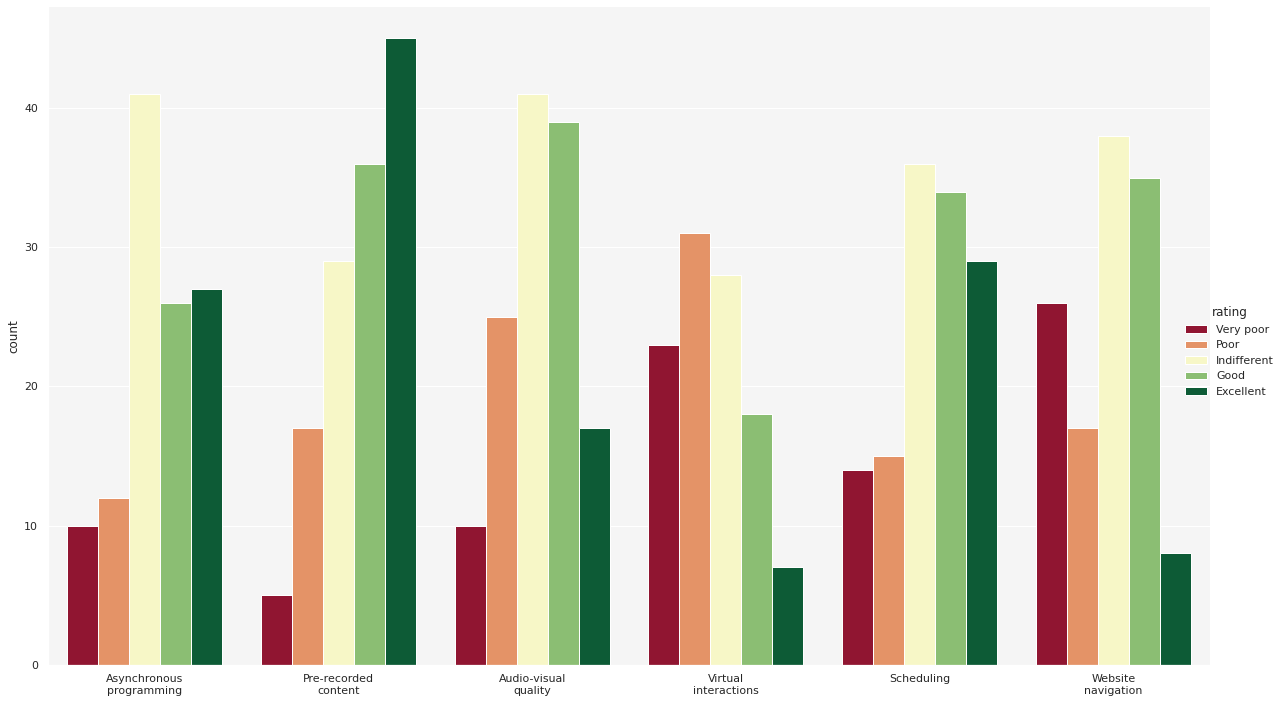
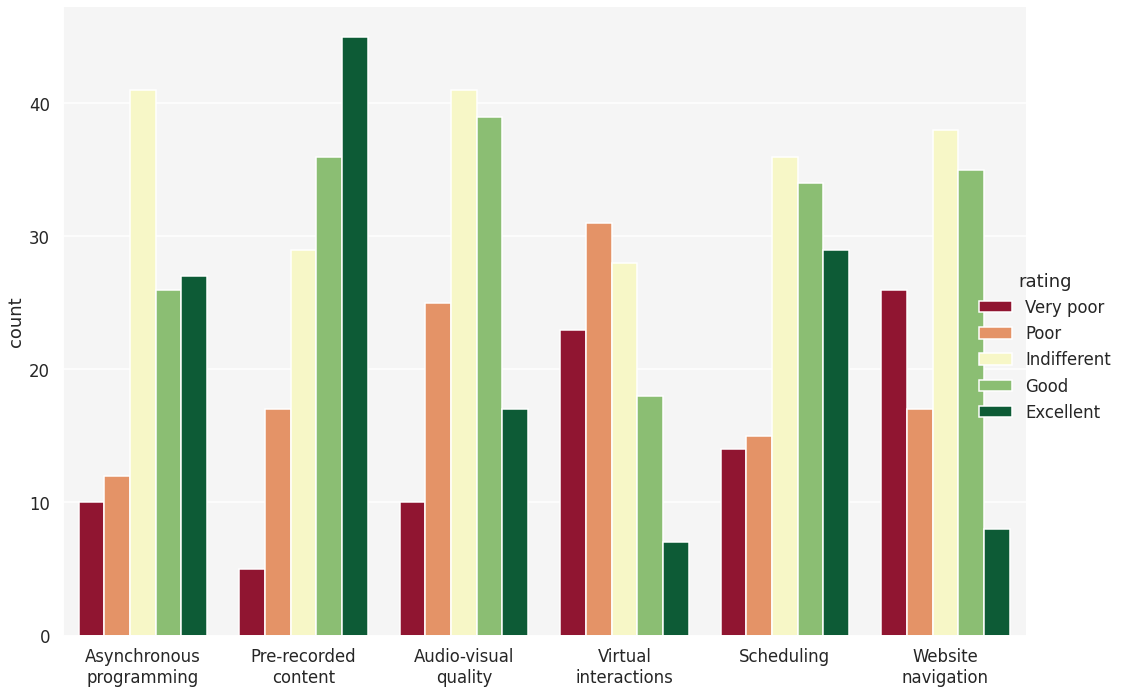
deploy: c23ac3cdcca77a7a8b3e005938ee07cb1d32996a

diff --git a/index.html b/index.html
@@ -251,7 +251,7 @@ We can then apply this function to the loaded pandas dataframe and plot the resu
                  <span class="s1">&#39;Audio-visual quality&#39;</span><span class="p">,</span> <span class="s1">&#39;Virtual interactions&#39;</span><span class="p">,</span>
                  <span class="s1">&#39;Scheduling&#39;</span><span class="p">,</span> <span class="s1">&#39;Website navigation&#39;</span><span class="p">]</span>
 
-    <span class="n">sns</span><span class="o">.</span><span class="n">set</span><span class="p">(</span><span class="n">context</span><span class="o">=</span><span class="s1">&#39;notebook&#39;</span><span class="p">)</span>
+    <span class="n">sns</span><span class="o">.</span><span class="n">set</span><span class="p">(</span><span class="n">context</span><span class="o">=</span><span class="s1">&#39;talk&#39;</span><span class="p">)</span>
     <span class="n">sns</span><span class="o">.</span><span class="n">set_style</span><span class="p">(</span><span class="s1">&#39;darkgrid&#39;</span><span class="p">,</span> <span class="p">{</span><span class="s2">&quot;axes.facecolor&quot;</span><span class="p">:</span> <span class="s2">&quot;#F5F5F5&quot;</span><span class="p">})</span>
     <span class="n">fig</span> <span class="o">=</span> <span class="n">sns</span><span class="o">.</span><span class="n">catplot</span><span class="p">(</span>
         <span class="n">data</span><span class="o">=</span><span class="n">stack</span><span class="p">,</span> <span class="n">kind</span><span class="o">=</span><span class="s2">&quot;bar&quot;</span><span class="p">,</span> <span class="n">x</span><span class="o">=</span><span class="s2">&quot;option&quot;</span><span class="p">,</span> <span class="n">y</span><span class="o">=</span><span class="s2">&quot;count&quot;</span><span class="p">,</span> <span class="n">hue</span><span class="o">=</span><span class="s2">&quot;rating&quot;</span><span class="p">,</span>
